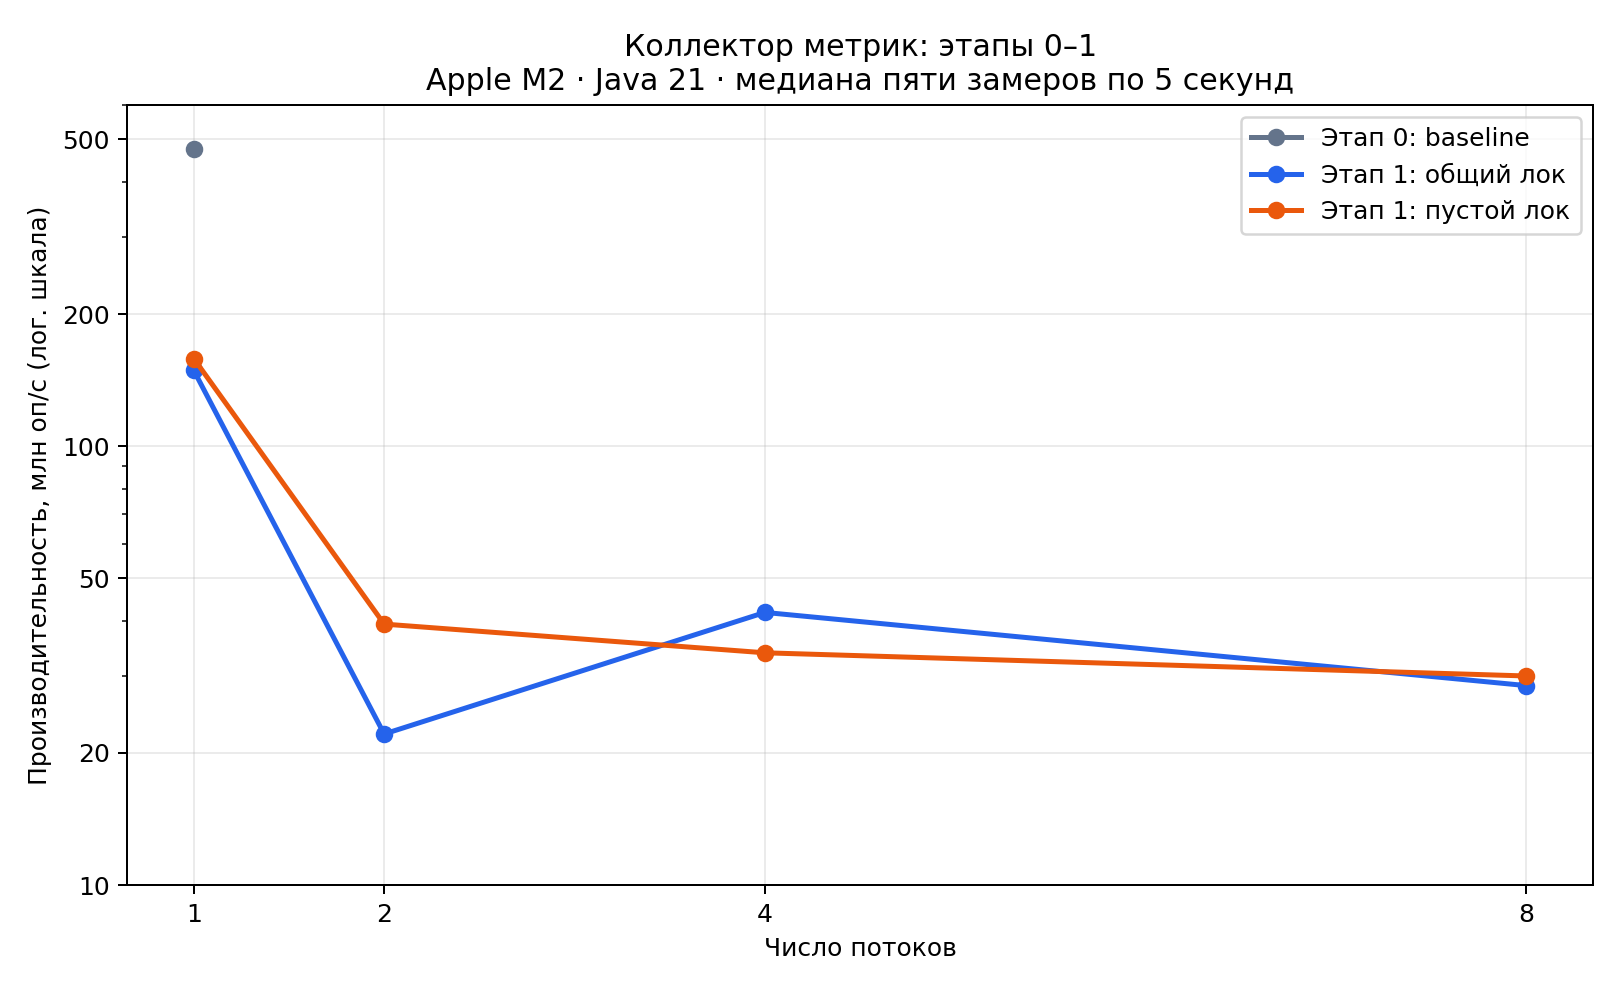
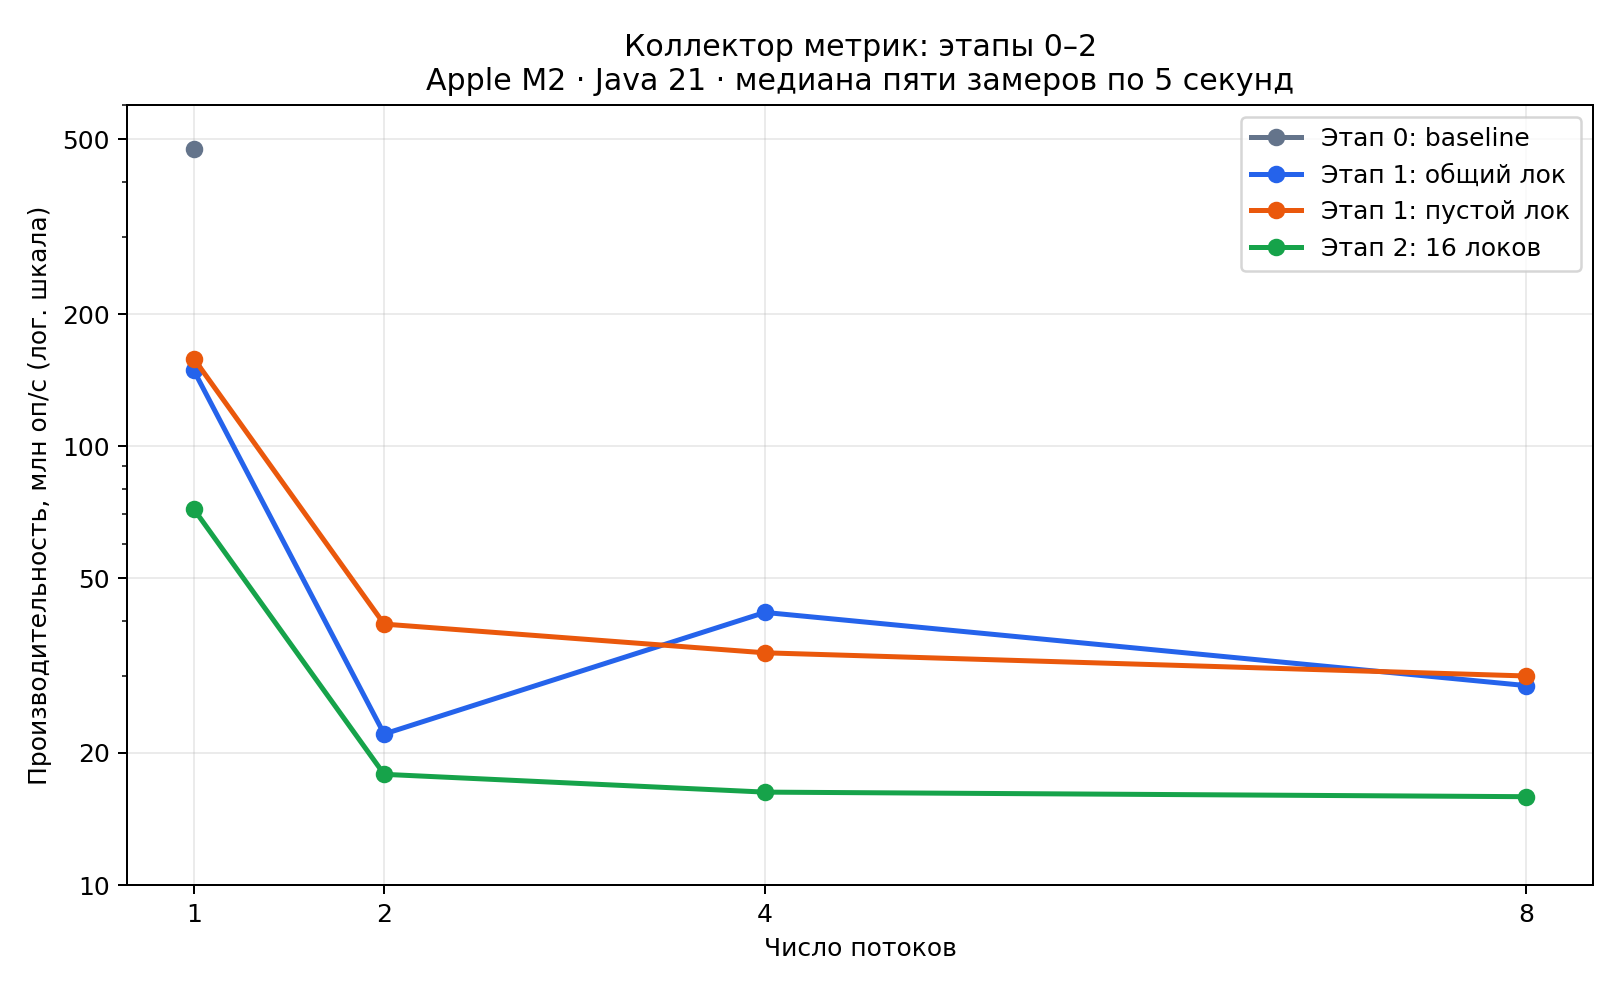
stage 2 done

diff --git a/lab1/src/lab1/benchmark/ConsistencyTest.java b/lab1/src/lab1/benchmark/ConsistencyTest.java
@@ -1,0 +1,82 @@
+package lab1.benchmark;
+
+import java.util.Locale;
+import java.util.concurrent.CountDownLatch;
+
+import lab1.collectors.MetricsCollector;
+import lab1.collectors.Snapshot;
+
+public final class ConsistencyTest {
+    private static final int SNAPSHOTS = 10_000;
+
+    private static final class StopFlag {
+        volatile boolean stopped;
+    }
+
+    private ConsistencyTest() {}
+
+    public static void run(MetricsCollector collector, long[] values, int threadCount)
+            throws InterruptedException {
+        CountDownLatch ready = new CountDownLatch(threadCount);
+        StopFlag stop = new StopFlag();
+        long[] operations = new long[threadCount];
+        Thread[] workers = new Thread[threadCount];
+
+        for (int k = 0; k < threadCount; k++) {
+            final int workerIndex = k;
+            workers[k] = new Thread(() -> {
+                int valueIndex = (int) ((workerIndex * 1000L) % values.length);
+                collector.record(values[valueIndex]);
+                long localCount = 1;
+                // Start reading snapshots after every writer has recorded a value.
+                ready.countDown();
+
+                while (!stop.stopped) {
+                    valueIndex++;
+                    if (valueIndex == values.length) {
+                        valueIndex = 0;
+                    }
+                    collector.record(values[valueIndex]);
+                    localCount++;
+                }
+                operations[workerIndex] = localCount;
+            });
+            workers[k].start();
+        }
+
+        int less = 0;
+        int greater = 0;
+        try {
+            ready.await();
+            for (int i = 0; i < SNAPSHOTS; i++) {
+                Snapshot snapshot = collector.snapshot();
+                long bucketCount = 0;
+                for (long bucket : snapshot.buckets()) {
+                    bucketCount += bucket;
+                }
+                if (bucketCount < snapshot.count()) {
+                    less++;
+                } else if (bucketCount > snapshot.count()) {
+                    greater++;
+                }
+            }
+        } finally {
+            stop.stopped = true;
+            for (Thread worker : workers) {
+                worker.join();
+            }
+        }
+
+        long totalOperations = 0;
+        for (long count : operations) {
+            totalOperations += count;
+        }
+        long finalCount = collector.snapshot().count();
+        double inconsistentPercent = (less + greater) * 100.0 / SNAPSHOTS;
+
+        System.out.println("threads,snapshots,inconsistent_percent,less,greater,operations,final_count,count_difference");
+        System.out.printf(Locale.ROOT, "%d,%d,%.2f,%d,%d,%d,%d,%d%n",
+                threadCount, SNAPSHOTS, inconsistentPercent, less, greater,
+                totalOperations, finalCount, finalCount - totalOperations);
+    }
+}

diff --git a/lab1/src/lab1/collectors/StripedCollector.java b/lab1/src/lab1/collectors/StripedCollector.java
@@ -1,0 +1,55 @@
+package lab1.collectors;
+
+import java.util.concurrent.atomic.AtomicLong;
+
+public final class StripedCollector implements MetricsCollector {
+    private static final int STRIPES = 16;
+
+    private final Object[] locks = new Object[STRIPES];
+    private final long[] buckets = new long[256];
+    private final AtomicLong count = new AtomicLong();
+    private final AtomicLong sum = new AtomicLong();
+    private final AtomicLong min = new AtomicLong(Long.MAX_VALUE);
+    private final AtomicLong max = new AtomicLong();
+
+    public StripedCollector() {
+        for (int i = 0; i < locks.length; i++) {
+            locks[i] = new Object();
+        }
+    }
+
+    @Override
+    public void record(long value) {
+        int bucket = (int) Math.min(value / 4, 255);
+        synchronized (locks[bucket % STRIPES]) {
+            buckets[bucket]++;
+        }
+
+        count.incrementAndGet();
+        sum.addAndGet(value);
+
+        long currentMin = min.get();
+        while (value < currentMin && !min.compareAndSet(currentMin, value)) {
+            currentMin = min.get();
+        }
+
+        long currentMax = max.get();
+        while (value > currentMax && !max.compareAndSet(currentMax, value)) {
+            currentMax = max.get();
+        }
+    }
+
+    @Override
+    public Snapshot snapshot() {
+        long[] copy = new long[256];
+        for (int stripe = 0; stripe < STRIPES; stripe++) {
+            synchronized (locks[stripe]) {
+                for (int bucket = stripe; bucket < buckets.length; bucket += STRIPES) {
+                    copy[bucket] = buckets[bucket];
+                }
+            }
+        }
+        // Each field is safe to read, but the snapshot is not a single consistent view.
+        return SnapshotUtils.create(copy, count.get(), sum.get(), min.get(), max.get());
+    }
+}

diff --git a/lab1/src/lab1/Main.java b/lab1/src/lab1/Main.java
@@ -3,11 +3,13 @@ package lab1;
 import java.util.Locale;
 
 import lab1.benchmark.Benchmark;
+import lab1.benchmark.ConsistencyTest;
 import lab1.benchmark.ZipfGenerator;
 import lab1.collectors.BaselineCollector;
 import lab1.collectors.EmptyLockCollector;
 import lab1.collectors.MetricsCollector;
 import lab1.collectors.MutexCollector;
+import lab1.collectors.StripedCollector;
 
 public final class Main {
     public static void main(String[] args) throws InterruptedException {
@@ -24,10 +26,15 @@ public final class Main {
             case "baseline" -> new BaselineCollector();
             case "mutex" -> new MutexCollector();
             case "empty-lock" -> new EmptyLockCollector();
+            case "striped" -> new StripedCollector();
             default -> throw new IllegalArgumentException("Unknown collector: " + name);
         };
 
         long[] values = ZipfGenerator.generate();
+        if (args.length > 2 && args[2].equals("stress")) {
+            ConsistencyTest.run(collector, values, threads);
+            return;
+        }
         double median = Benchmark.measure(collector, values, threads);
 
         System.err.printf(Locale.ROOT, "Median: %.3f million ops/sec%n", median / 1_000_000);

diff --git a/lab1/scripts/plot.py b/lab1/scripts/plot.py
@@ -17,6 +17,7 @@ for filename, label, color in [
     ("throughput.csv", "Этап 0: baseline", "#64748b"),
     ("mutex.csv", "Этап 1: общий лок", "#2563eb"),
     ("empty-lock.csv", "Этап 1: пустой лок", "#ea580c"),
+    ("striped.csv", "Этап 2: 16 локов", "#16a34a"),
 ]:
     measurements = {}
     with (results / filename).open() as source:
@@ -30,7 +31,7 @@ for filename, label, color in [
     ax.plot(threads, rates, marker="o", label=label, color=color, linewidth=2)
 
 ax.set_title(
-    "Коллектор метрик: этапы 0–1\n"
+    "Коллектор метрик: этапы 0–2\n"
     "Apple M2 · Java 21 · медиана пяти замеров по 5 секунд"
 )
 ax.set_xlabel("Число потоков")

diff --git a/lab1/README.md b/lab1/README.md
@@ -634,7 +634,7 @@ record(value):
 | **Этап 0:** Однопоточный baseline | 475,246 | — | — | — | — |
 | **Этап 1:** Пустой лок (без записи) | 158,291 | 39,322 | 33,827 | 29,953 | — |
 | **Этап 1:** Единый общий лок | 148,754 | 22,094 | 41,808 | 28,478 | — |
-| **Этап 2:** Шардированный лок (16 групп) | | | | | |
+| **Этап 2:** Шардированный лок (16 групп) | 71,893 | 17,880 | 16,287 | 15,901 | — |
 | **Этап 3:** Thread-Local состояние (локальные данные) | | | | | |
 | **Этап 4:** Двойная буферизация | | | | | |
 
@@ -646,7 +646,7 @@ record(value):
 
 | Реализация | Доля битых снимков (sum != count) | Снимок: sum < count | Снимок: sum > count | Итоговый count − число вызовов (после join) |
 | :--- | :---: | :---: | :---: | :---: |
-| **Этап 2:** Шардированный лок | % | раз | раз | |
+| **Этап 2:** Шардированный лок | 92,29% | 8585 | 644 | 0 |
 | **Этап 3:** Thread-Local состояние (локальные данные) | % | раз | раз | |
 | **Этап 4:** Двойная буферизация | % | раз | раз | |
 | **Этап 4 (без шага 3):** без проверки `active` | % | раз | раз | |
@@ -656,12 +656,10 @@ record(value):
 | Вопрос | Ваш ответ |
 | :--- | :--- |
 | **1. Пустой лок против полного:** Почему пустой лок тоже резко падает с ростом потоков? Что добавляет полная версия? | Даже пустой лок сериализует потоки: передача владения монитором требует обмена кэш-линиями, а ожидание может приводить к парковке и пробуждению потоков. Полная версия дополнительно обновляет корзины и сводку; на нашем стенде при 8 потоках она дала 28,478 против 29,953 млн оп/с у пустого лока, но при 4 потоках оказалась быстрее — ожидаемый разрыв в 1,5–2 раза не воспроизвёлся. |
-| **2. Провал шардирования и атомиков:** Почему 16 шардов и атомарная сводка на этапе 2 не спасли скорость записи на законе Ципфа? Куда переехало узкое место? | |
+| **2. Провал шардирования и атомиков:** Почему 16 шардов и атомарная сводка на этапе 2 не спасли скорость записи на законе Ципфа? Куда переехало узкое место? | Распределение Ципфа создаёт горячую корзину 0, поэтому значительная часть записей конкурирует за один и тот же лок. Кроме того, каждый вызов обновляет общие атомарные count и sum: узкое место сохраняется в горячем шарде и переносится в конкуренцию за кэш-линии сводки. |
 | **3. Замедление на этапе 3:** Почему на этапе 3 рост скорости замедляется после 8 потоков? Как это связано с выводом `lscpu`? | |
 | **4. Двойная буферизация против TLS:** Почему этап 4 медленнее этапа 3 (в C++ в 2,5–3,5 раза, в Java в 1,1–1,7 раза, а на 16 потоках Java почти догоняет этап 3), но масштабируется почти линейно? В чём разница инструкций при записи? | |
 | **5. Эксперимент с шагом 3:** Что сломалось в тесте на этапе 4, когда вы убрали повторную проверку `active == b`? Почему итоговый `count` расходится с числом вызовов? | |
-
-
 
 
 
